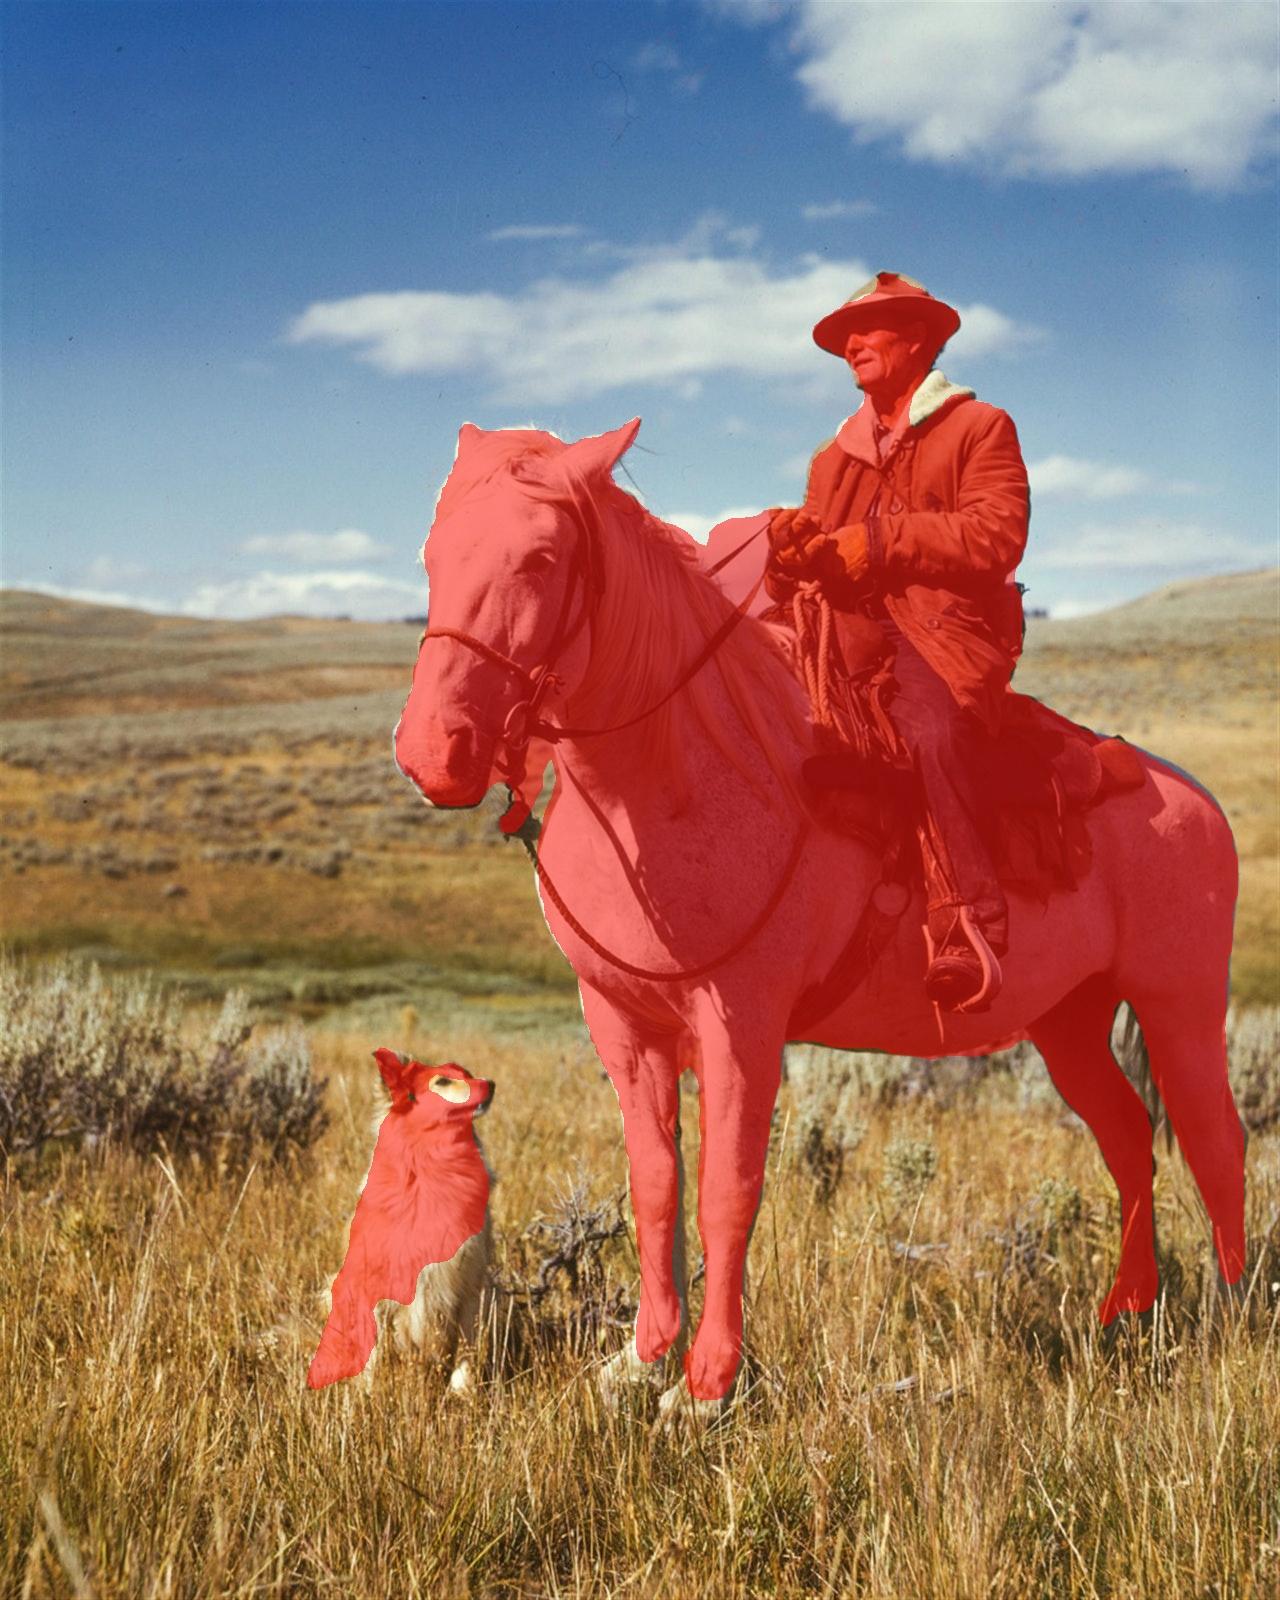
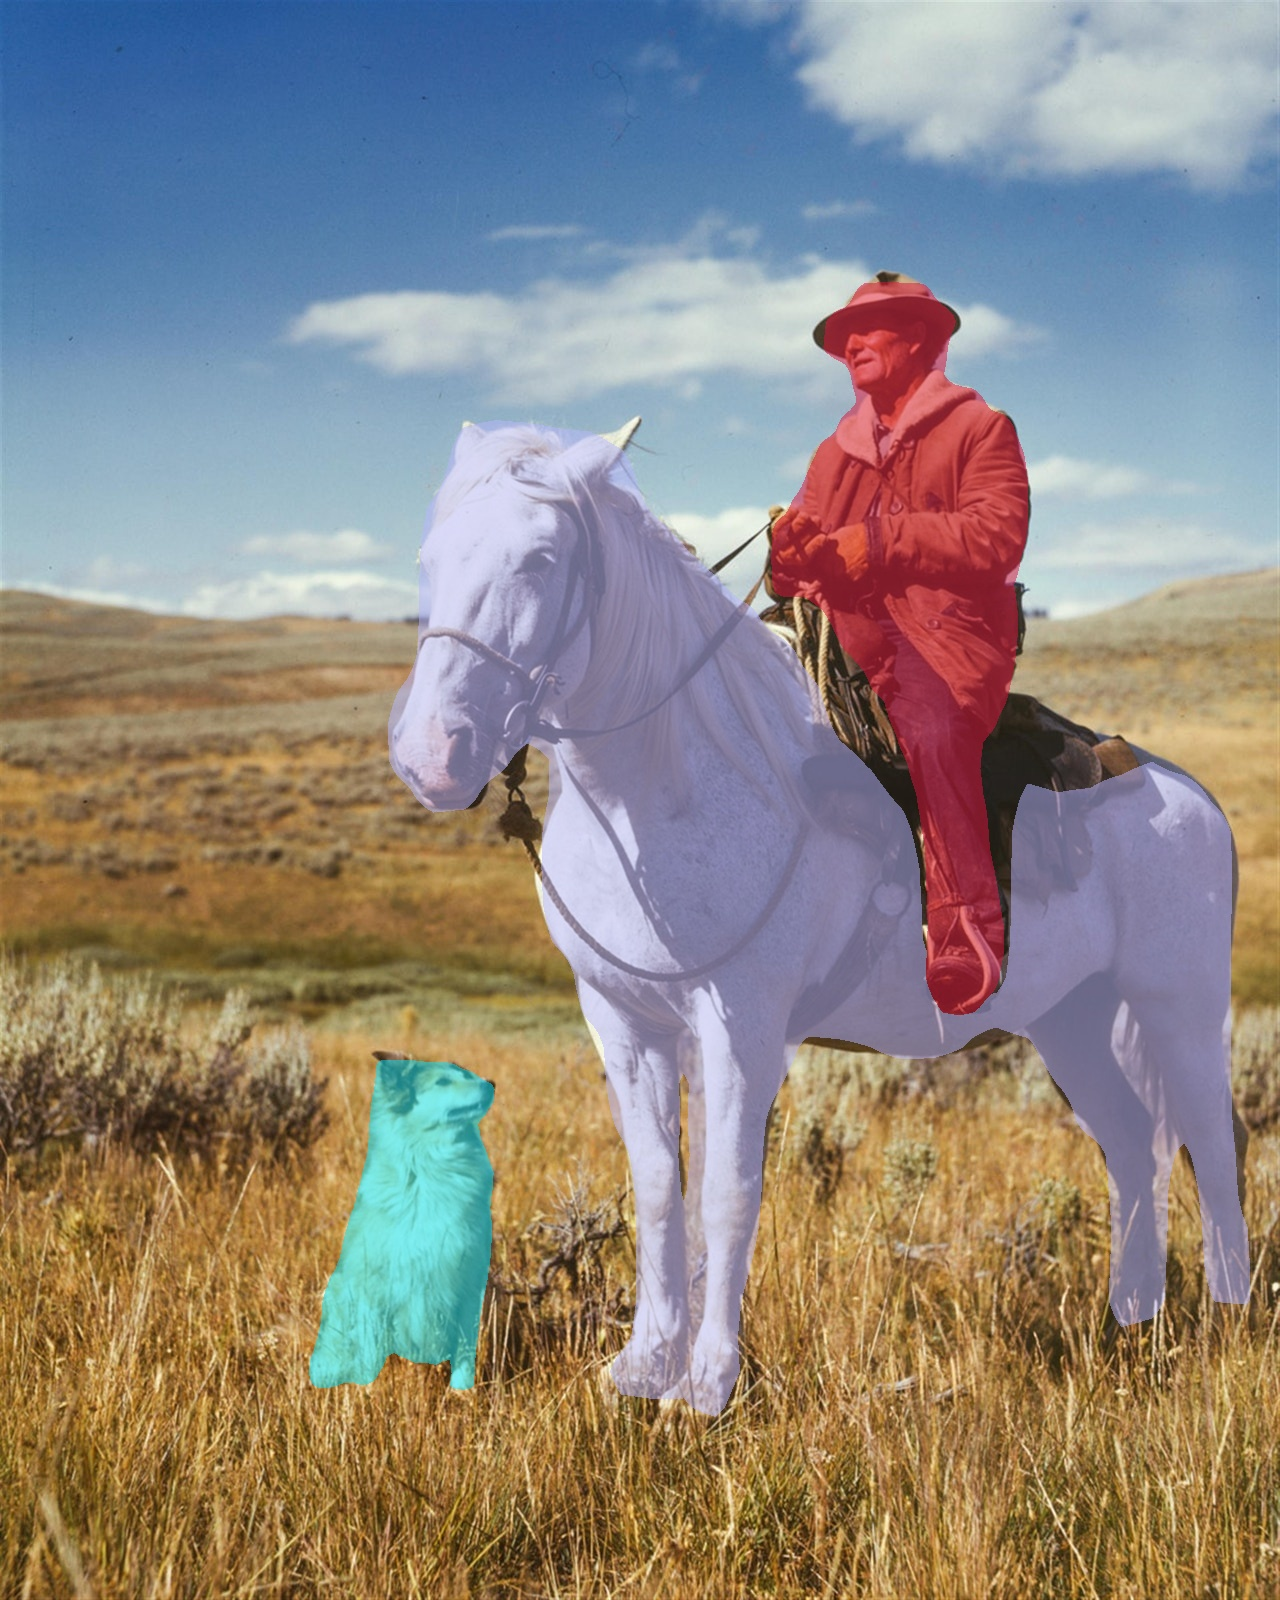
reforming as instance segmentation

Changed region(s): [[0.2812, 0.1562, 1.0, 0.9062], [0.2188, 0.6562, 0.4062, 0.875]]

diff --git a/src/main.py b/src/main.py
@@ -1,4 +1,5 @@
 import os, sys
+import numpy as np
 import torch
 from pathlib import Path
 import cv2
@@ -20,10 +21,7 @@ load_dotenv("local.env")
 load_dotenv(os.path.expanduser("~/supervisely.env"))
 root_source_path = str(Path(__file__).parents[1])
 
-device = "cuda" if torch.cuda.is_available() else "cpu"
-print("Using device:", device)
-
-class TransfinerModel(sly.nn.inference.SalientObjectSegmentation):
+class TransfinerModel(sly.nn.inference.InstanceSegmentation):
     def load_on_device(
         self,
         model_dir: str = None,
@@ -48,8 +46,12 @@ class TransfinerModel(sly.nn.inference.SalientObjectSegmentation):
         default_conf_thres = self.custom_inference_settings_dict["conf_thres"]
         transfiner_api.set_conf_thres(self.predictor.model, default_conf_thres)
 
-        self.coco_classes = transfiner_api.get_classes()  # the model seems had been trained on COCO 80 classes
-        self.class_names = ["object_mask"]  # but we will test it as SalientObjectSegmentation
+        self.class_names, colors = transfiner_api.get_coco_classes()  # 80 COCO classes
+        obj_classes = [sly.ObjClass(name, sly.Bitmap, color) for name, color in zip(self.class_names, colors)]
+        self._model_meta = sly.ProjectMeta(
+            obj_classes=sly.ObjClassCollection(obj_classes),
+            tag_metas=sly.TagMetaCollection([self._get_confidence_tag_meta()])
+        )
         print(f"✅ Model has been successfully loaded on {device.upper()} device")
 
     def predict(self, image_path: str, settings: Dict[str, Any]) -> List[sly.nn.PredictionMask]:
@@ -60,11 +62,15 @@ class TransfinerModel(sly.nn.inference.SalientObjectSegmentation):
         img = cv2.imread(image_path)
         outputs = self.predictor(img)
         pred_classes = outputs["instances"].pred_classes.cpu().numpy()
+        pred_class_names = [self.class_names[pred_class] for pred_class in pred_classes]
         pred_scores = outputs["instances"].scores.cpu().numpy().tolist()
         pred_masks = outputs["instances"].pred_masks.cpu().numpy()
 
-        res = [sly.nn.PredictionMask(class_name=self.class_names[0], mask=mask) for mask in pred_masks]
-        return res
+        results = []
+        for score, class_name, mask in zip(pred_scores, pred_class_names, pred_masks):
+            if np.any(mask):
+                results.append(sly.nn.PredictionMask(class_name, mask, score))
+        return results
     
     def get_models(self):
         models = []
@@ -75,24 +81,11 @@ class TransfinerModel(sly.nn.inference.SalientObjectSegmentation):
             models.append({"Model": name, "config": cfg, **info})
         return models
 
-    def binarize_mask(self, mask, threshold):
-        mask[mask < threshold] = 0
-        mask[mask >= threshold] = 1
-        return mask
-
-    @property
-    def model_meta(self):
-        if self._model_meta is None:
-            self._model_meta = sly.ProjectMeta(
-                [sly.ObjClass(self.class_names[0], sly.Bitmap, [255, 0, 0])]
-            )
-            self._get_confidence_tag_meta()
-        return self._model_meta
-
     def get_info(self):
         info = super().get_info()
-        info["videos_support"] = False
-        info["async_video_inference_support"] = False
+        info["pretrained_on_dataset"] = "COCO"
+        info["model_name"] = self.model_name
+        info["device"] = self.device
         return info
 
     def get_classes(self) -> List[str]:
@@ -110,12 +103,11 @@ m = TransfinerModel(
 if sly.is_production():
     m.serve()
 else:
+    device = "cuda" if torch.cuda.is_available() else "cpu"
+    print("Using device:", device)
     m.load_on_device(m.model_dir, device)
-    image_path = "./demo_data/image_03.jpg"
-    # rect = sly.Rectangle(360, 542, 474, 700).to_json()
-    # ann = m._inference_image_path(image_path=image_path, settings={"rectangle": rect, "bbox_padding":"66%"}, data_to_return={})
-    # ann.draw_pretty(sly.image.read(image_path), [255,0,0], 7, output_path="out.png")
+    image_path = "./demo_data/image_01.jpg"
     results = m.predict(image_path, settings={})
-    vis_path = "./demo_data/image_03_prediction.jpg"
+    vis_path = "./demo_data/image_01_prediction.jpg"
     m.visualize(results, image_path, vis_path, thickness=0)
     print(f"predictions and visualization have been saved: {vis_path}")

diff --git a/src/transfiner_api.py b/src/transfiner_api.py
@@ -45,8 +45,9 @@ def download_weights(url, output):
     if not os.path.exists(output):
         gdown.download(url, output=output)
 
-def get_classes():
-    return MetadataCatalog.get("coco_2017_val").thing_classes
+def get_coco_classes():
+    meta = MetadataCatalog.get("coco_2017_val")
+    return meta.thing_classes, meta.thing_colors
 
 
 # TESTING

diff --git a/README.md b/README.md
@@ -1,6 +1,7 @@
-# Serve Transfiner for Salinet Instance Segmentation
+# Serve Transfiner for Instance Segmentation
 
-- Based on: https://github.com/SysCV/transfiner
-- App source code: https://github.com/supervisely-ecosystem/serve-transfiner/tree/master
+- Based on: [https://github.com/SysCV/transfiner](https://github.com/SysCV/transfiner)
+- App source code: [https://github.com/supervisely-ecosystem/serve-transfiner/tree/master](https://github.com/supervisely-ecosystem/serve-transfiner/tree/master)
 
-![prediction](https://raw.githubusercontent.com/supervisely-ecosystem/serve-transfiner/master/demo_data/image_03_prediction.jpg)
+## Prediction sample:
+![prediction](https://raw.githubusercontent.com/supervisely-ecosystem/serve-transfiner/master/demo_data/image_01_prediction.jpg)
